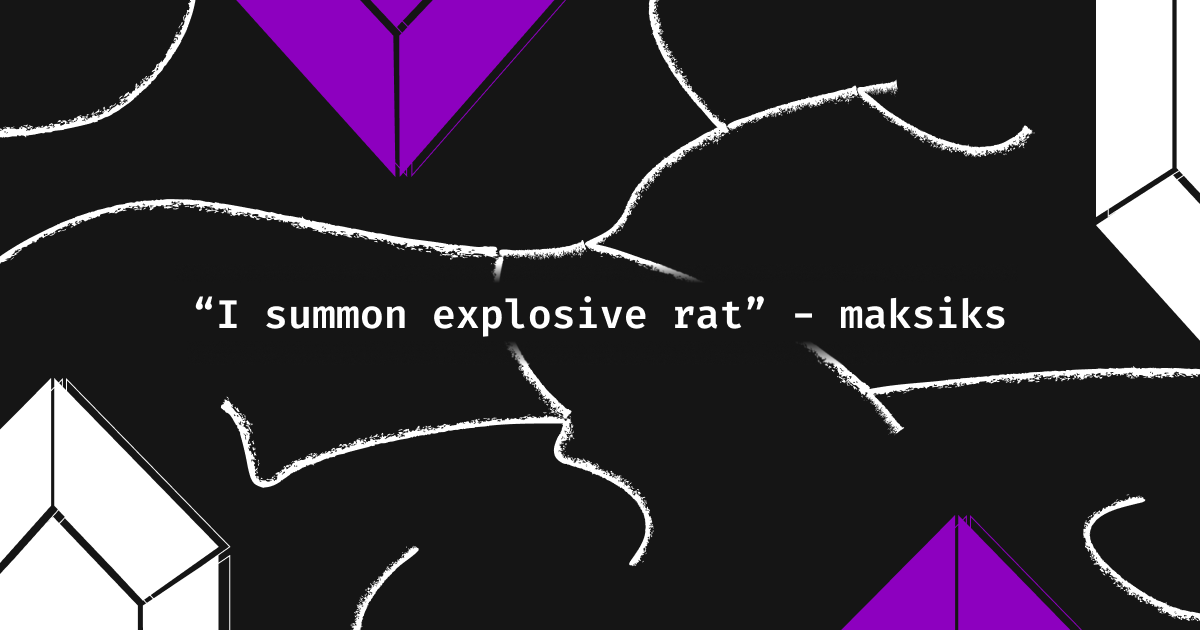
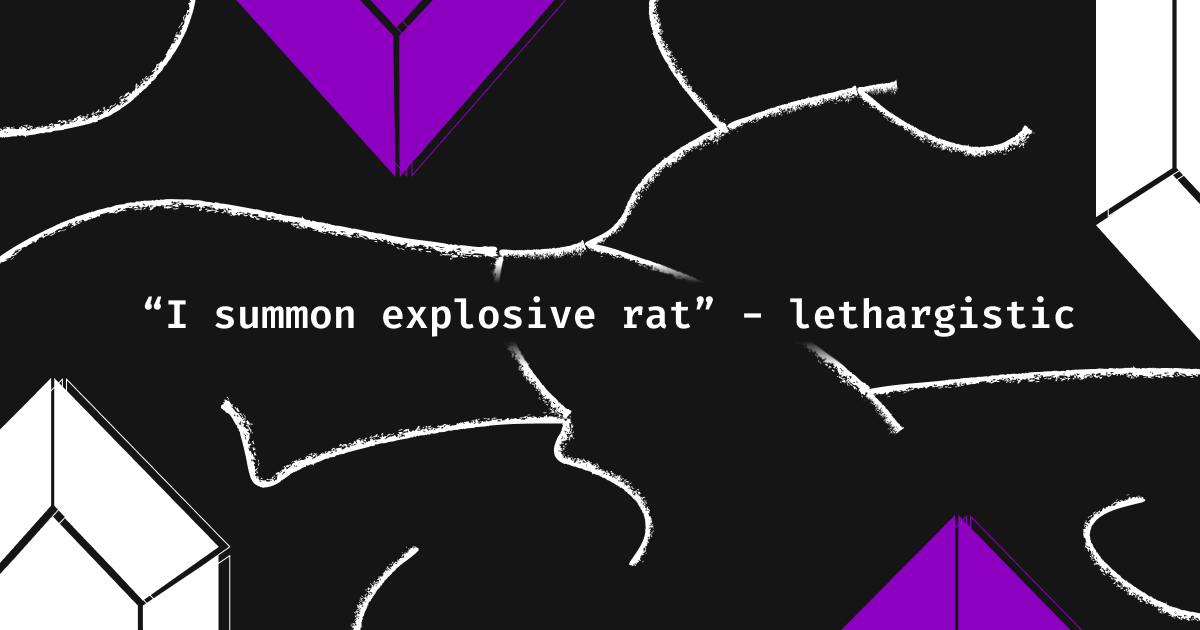
fix: changed ogimg nickname to current

Changed region(s): [[0.1233, 0.4524, 0.8942, 0.5429]]

diff --git a/todo.md b/todo.md
@@ -101,4 +101,5 @@
 - [ ] fix: might be worth putting a few more concrete results on each project like core features or rough timelines so people see you actually ship
 - [ ] fix: web sec arrow only ever appears for the first time you click a project
 - [ ] todo: make buttons data driven
-- [ ] todo very: sort certificates by group and relevancy, in reverse historical/relevancy order 
+- [x] todo very: sort certificates by group and relevancy, in reverse historical/relevancy order 
+- [ ] todo minor: cert watermark still says Maksiks www
